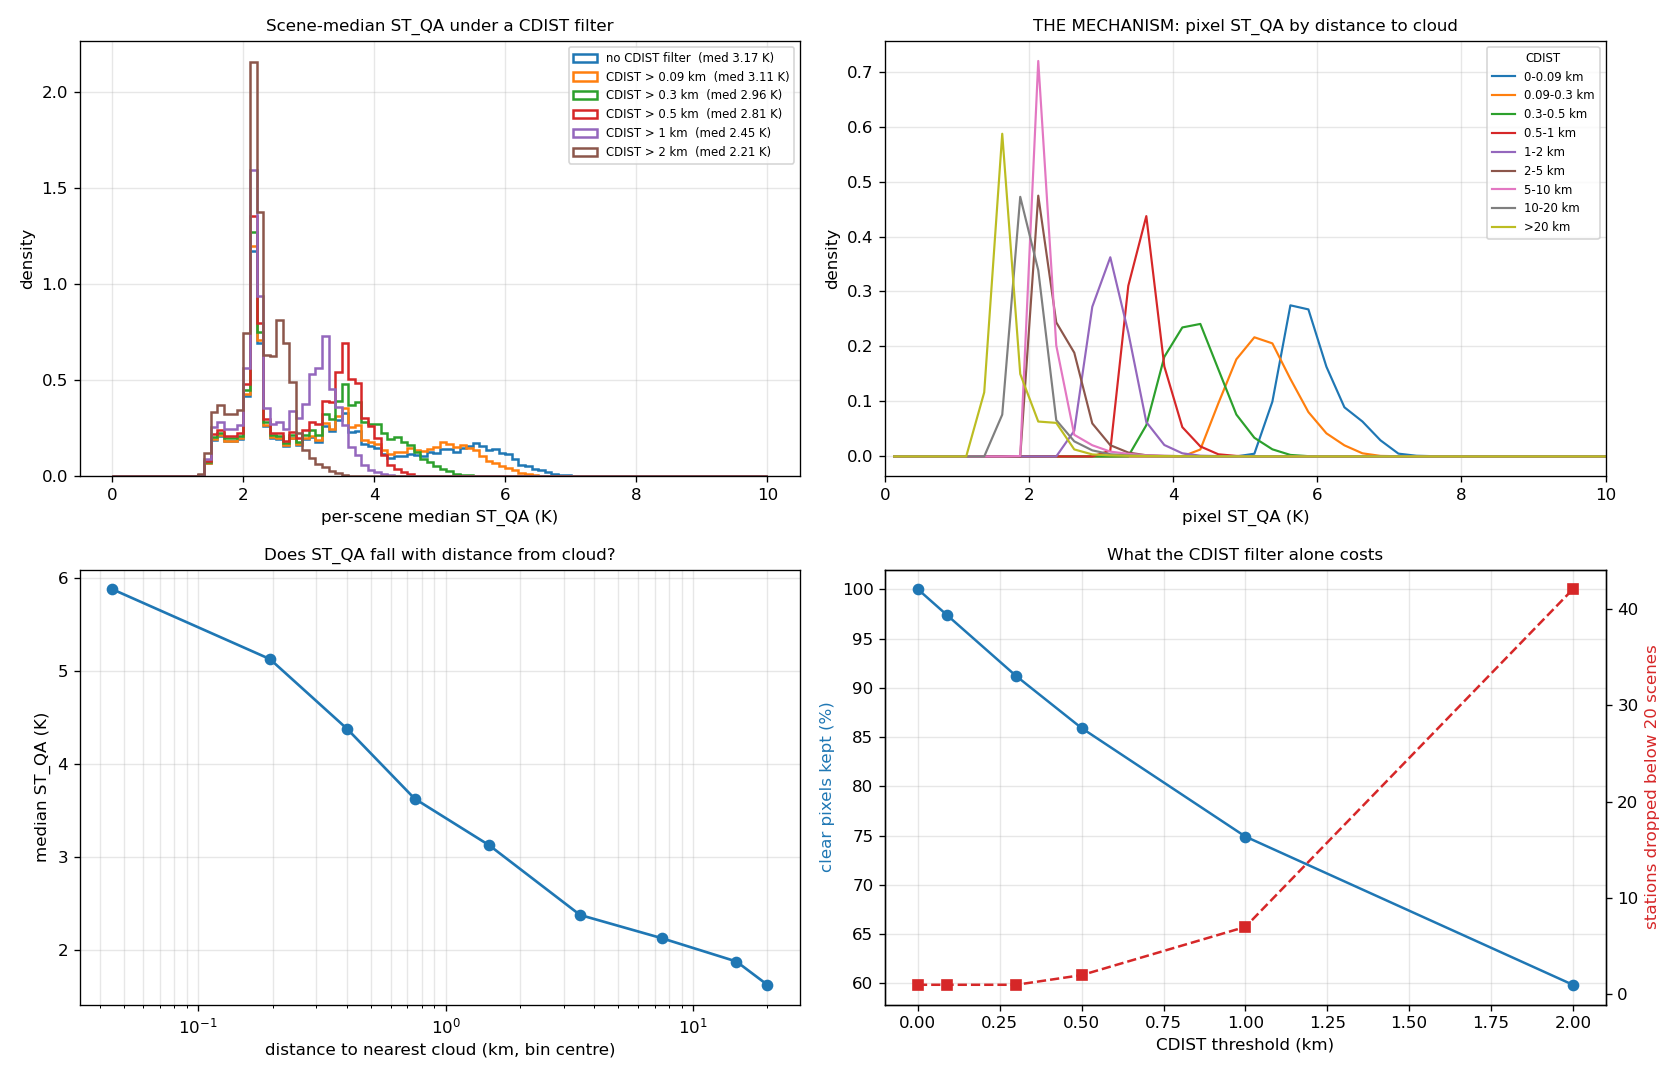
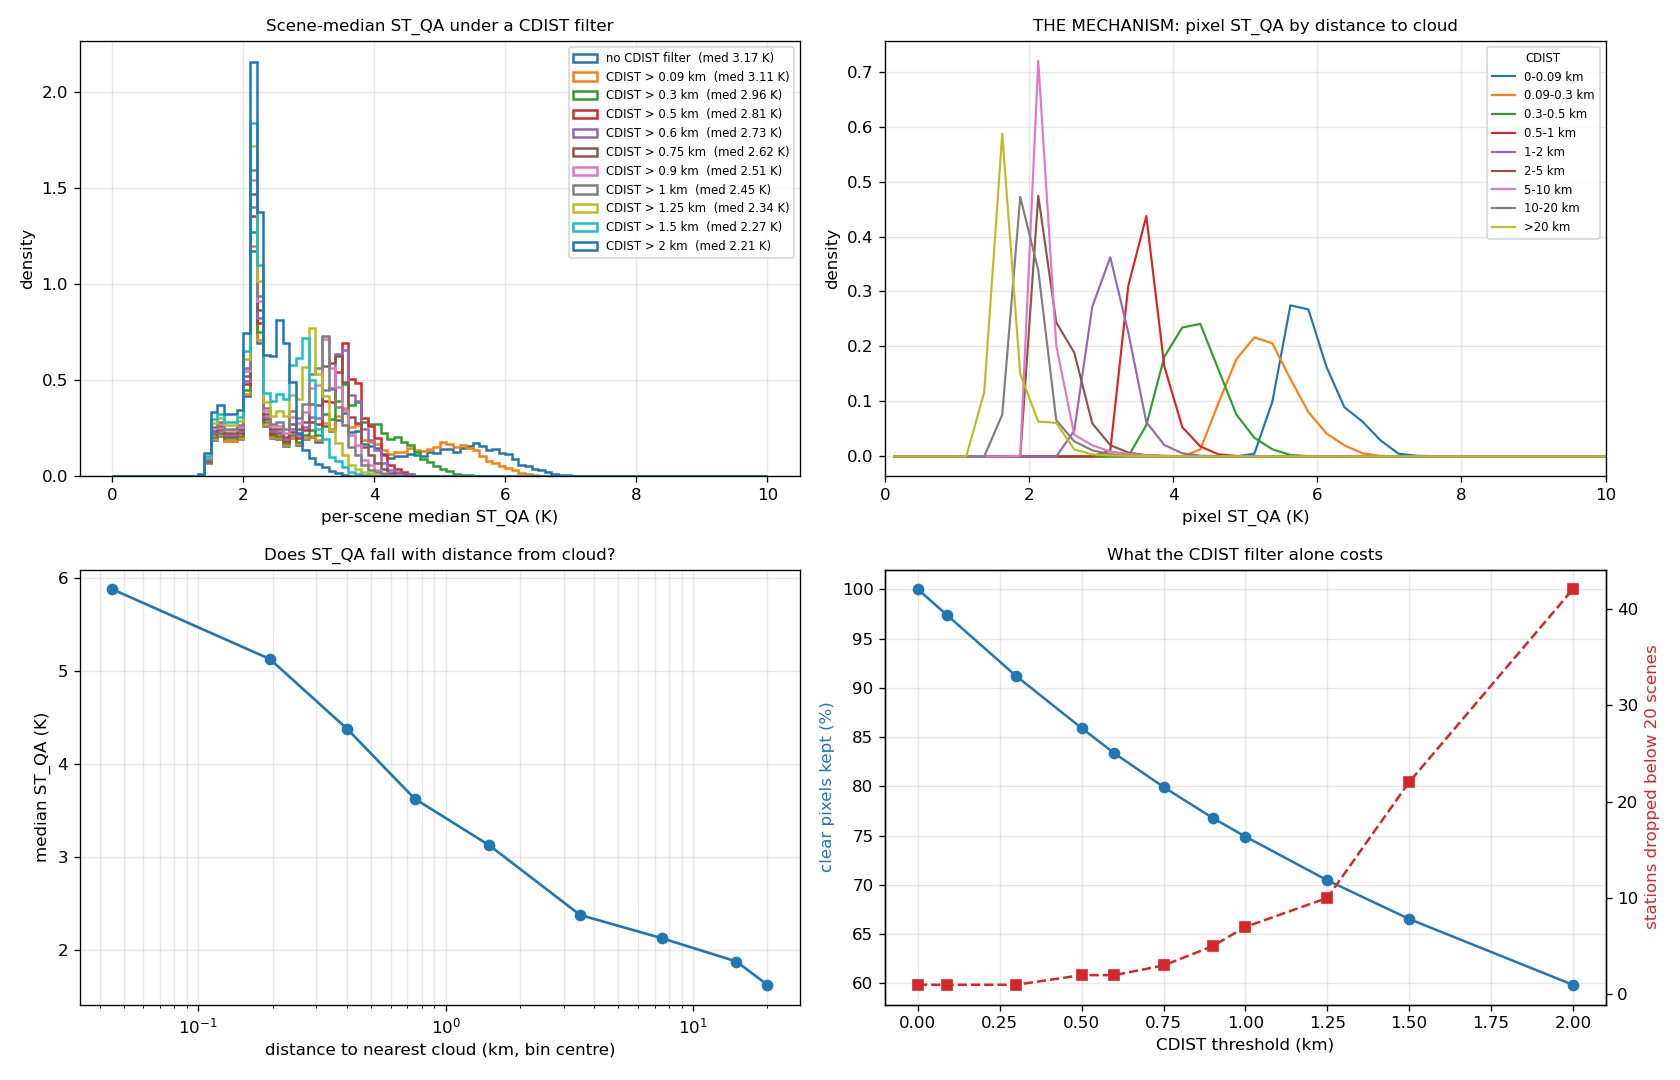
probe: CDIST 0.5 km vs 1 km, resolved per Koppen class -- default 0.5 km
probe_cdist_climate.py + finer thresholds in probe_stqa_cdist.py.
fig/landsat_st30_check/cdist_climate.png.

Climate skew rises LINEARLY with threshold from ~0.3 km -- there is NO KNEE, so the data
does not pick a value.  Stated plainly rather than over-read.

  0.5 km: 85.9% pixels, skew 1.28x, 2 stations lost, median ST_QA 2.87 K
  1.0 km: 74.9% pixels, skew 1.71x, 7 stations lost, median ST_QA 2.49 K

The two halves of the interval cost differently: 0->0.5 costs 14pp for skew 1.28, while
0.5->1.0 costs a further 11pp for skew 1.71 and 2->7 stations.  Similar data, 1.5x the
skew, 3.5x the station loss.

DEFAULT 0.5 km, on two grounds from the purity panel:
  * arid (B, 223 stations) flattens by 0.5 km -- 2.63 -> 2.25 K, with only 0.05 K more
    available all the way to 2 km.  C and D behave similarly.  Beyond 0.5 km you pay for
    purity that the 979 stations in B/C/D already have.
  * past 0.5 km the extra purity comes disproportionately from A (8 stations) and E (6),
    which are nearly invisible in absolute supervision -- halving a class already 14 of
    993 costs little in pixels and much in cross-climate generalisation.

Unlike the rest of this session's decisions, this one is FREE TO CHANGE: a training-time
filter on raw stored data.  0.5 km is a default, 1.0 km a one-line ablation.

Noted: tropical is 3.56 K median ST_QA even at 1 km vs 2.22 K arid.  No global threshold
fixes that -- it argues for handling A separately.

diff --git a/probe_cdist_climate.py b/probe_cdist_climate.py
@@ -1,37 +1,118 @@
 #!/usr/bin/env python
-"""Does the CDIST filter inherit the climate bias that disqualified the ST_QA gate?
+"""CDIST 0.5 km or 1 km?  The trade-off, resolved per Koppen macro-class.
 
-The ST_QA gate was rejected partly because `ST_QA <= 3 K` retained 0.725 of arid (B) supervision
-against 0.243 of tropical (A) -- a 3x skew hitting the two climates already least represented.
-CDIST predicts ST_QA almost deterministically, so it could inherit exactly that skew: if cloud
-proximity and high ST_QA both merely track a humid atmosphere, then filtering on either one is
-filtering on climate.  Reads csvs/landsat_stqa_cdist.csv, nothing else.
+The ST_QA gate was disqualified on climate skew: `ST_QA <= 3 K` retained 0.725 of arid (B)
+supervision against 0.243 of tropical (A), a 2.98x spread hitting the two classes already least
+represented.  CDIST predicts ST_QA almost deterministically, so it can inherit that skew, and the
+only question left is where to put the threshold.
+
+Two things this plots that the aggregate numbers hide:
+
+  * SKEW IS NOT LINEAR IN THE THRESHOLD.  Retention curves for the five classes run together at
+    low thresholds and fan out as the filter bites.  Where they start to separate IS the answer,
+    and it is not visible in any single-threshold table.
+
+  * A AND E ARE 14 OF 993 STATIONS.  A large RELATIVE loss there is a small ABSOLUTE loss of
+    supervision, but it is exactly the loss that costs generalisation across climate.  Both views
+    are plotted, because arguing from either alone gives a different answer.
+
+OUTPUT  fig/landsat_st30_check/cdist_climate.png
 """
+from __future__ import annotations
+
+from pathlib import Path
+
+import matplotlib
+matplotlib.use("Agg")
+import matplotlib.pyplot as plt
+import numpy as np
 import pandas as pd
 
-D = "/gpfs/work3/0/prjs1968/soilMoisture/csvs/landsat_stqa_cdist.csv"
-d = pd.read_csv(D)
+SRC = Path("/gpfs/work3/0/prjs1968/soilMoisture/csvs/landsat_stqa_cdist.csv")
+FIG = Path("/gpfs/work3/0/prjs1968/soilMoisture/fig/landsat_st30_check")
+NAMES = {"A": "A tropical", "B": "B arid", "C": "C temperate",
+         "D": "D continental", "E": "E polar"}
+MIN_SCENES = 20
+
+d = pd.read_csv(SRC)
+thr = sorted(float(c[3:]) for c in d.columns if c.startswith("px_"))
 g = d.groupby("kg_macro")
-cols = [c for c in ("px_0.09", "px_0.3", "px_0.5", "px_1", "px_2") if c in d.columns]
-ret = g[cols].sum().div(g["n_clear_px"].sum(), axis=0)
-ret.insert(0, "n_stations", g.size())
 
-print("CLEAR-PIXEL RETENTION BY KOPPEN MACRO-CLASS, CDIST filter\n")
+ret = pd.DataFrame({f"{t:g}": g[f"px_{t:g}"].sum() / g["n_clear_px"].sum() for t in thr})
+absol = pd.DataFrame({f"{t:g}": g[f"px_{t:g}"].sum() for t in thr})
+meds = pd.DataFrame({f"{t:g}": g[f"med_{t:g}"].median() for t in thr})
+drop = pd.DataFrame({f"{t:g}": g.apply(
+    lambda x, t=t: int((x[f"scenes_with_median_{t:g}"] < MIN_SCENES).sum())) for t in thr})
+n_st = g.size()
+
+print("CLEAR-PIXEL RETENTION BY KOPPEN MACRO-CLASS\n")
 print(ret.round(4).to_string())
+print("\nSKEW (max/min across classes) AND OVERALL RETENTION\n")
+print(f"{'CDIST >':>9}{'overall':>10}{'skew':>8}{'worst class':>14}"
+      f"{'stations lost':>15}{'median ST_QA':>14}")
+tot = d.n_clear_px.sum()
+for t in thr:
+    k = f"{t:g}"
+    s = ret[k]
+    overall = d[f"px_{k}"].sum() / tot
+    lost = int((d[f"scenes_with_median_{k}"] < MIN_SCENES).sum())
+    med = float(d[f"med_{k}"].median())
+    lab = "none" if t == 0 else f"{t:g} km"
+    print(f"{lab:>9}{overall:>10.3f}{s.max()/s.min():>8.2f}"
+          f"{s.idxmin()+' '+format(s.min(),'.3f'):>14}{lost:>15}{med:>14.3f}")
 
-mcols = [c for c in ("med_0", "med_1") if c in d.columns]
-if len(mcols) == 2:
-    m = g[mcols].median()
-    m["shift_K"] = m["med_1"] - m["med_0"]
-    print("\nresulting median ST_QA per class, no filter -> CDIST > 1 km:\n")
-    print(m.round(3).to_string())
+# ---------------- figure ----------------
+x = np.array(thr)
+fig, axes = plt.subplots(2, 2, figsize=(14, 9))
+cols = {"A": "tab:red", "B": "tab:orange", "C": "tab:green",
+        "D": "tab:blue", "E": "tab:purple"}
 
-if "px_1" in ret.columns:
-    s = ret["px_1"]
-    print(f"\nCDIST > 1 km spread : {s.min():.3f} ({s.idxmin()}) to {s.max():.3f} ({s.idxmax()})"
-          f"   ratio {s.max()/s.min():.2f}x")
-if "px_0.5" in ret.columns:
-    s = ret["px_0.5"]
-    print(f"CDIST > 0.5 km spread: {s.min():.3f} ({s.idxmin()}) to {s.max():.3f} ({s.idxmax()})"
-          f"   ratio {s.max()/s.min():.2f}x")
-print("\nReference: the ST_QA <= 3 K gate spanned 0.243 (A) to 0.725 (B) -- a 2.98x skew.")
+def mark(ax):
+    for v, c in ((0.5, "k"), (1.0, "k")):
+        ax.axvline(v, color=c, ls=":", lw=1.1, alpha=.6)
+    ax.grid(alpha=.3)
+
+ax = axes[0, 0]
+for cl in ret.index:
+    ax.plot(x, ret.loc[cl].values, "o-", ms=3.5, color=cols.get(cl),
+            label=f"{NAMES.get(cl, cl)}  (n={n_st[cl]})")
+ax.plot(x, [d[f"px_{t:g}"].sum() / tot for t in thr], "k--", lw=2, label="all 993")
+ax.set_xlabel("CDIST threshold (km)"); ax.set_ylabel("clear pixels retained")
+ax.set_title("Retention by climate — where do the classes fan out?", fontsize=10)
+ax.legend(fontsize=7); mark(ax)
+
+ax = axes[0, 1]
+skew = (ret.max() / ret.min()).values
+ax.plot(x, skew, "o-", color="tab:red", lw=2)
+ax.axhline(2.98, color="grey", ls="--", lw=1.2)
+ax.text(x[-1], 2.98, "  ST_QA ≤ 3 K (2.98x, rejected)", va="center", ha="right",
+        fontsize=8, color="grey")
+for v in (0.5, 1.0):
+    i = int(np.argmin(np.abs(x - v)))
+    ax.annotate(f"{skew[i]:.2f}x", (x[i], skew[i]), textcoords="offset points",
+                xytext=(6, 8), fontsize=9, fontweight="bold")
+ax.set_xlabel("CDIST threshold (km)"); ax.set_ylabel("skew, max/min across classes")
+ax.set_title("THE DECISION: climate skew vs threshold", fontsize=10)
+mark(ax)
+
+ax = axes[1, 0]
+for cl in meds.index:
+    ax.plot(x, meds.loc[cl].values, "o-", ms=3.5, color=cols.get(cl), label=NAMES.get(cl, cl))
+ax.set_xlabel("CDIST threshold (km)"); ax.set_ylabel("median ST_QA (K)")
+ax.set_title("Purity bought, by climate", fontsize=10)
+ax.legend(fontsize=7); mark(ax)
+
+ax = axes[1, 1]
+bot = np.zeros(len(x))
+for cl in absol.index:
+    v = absol.loc[cl].values / 1e6
+    ax.bar(x, v, bottom=bot, width=0.055, color=cols.get(cl), label=NAMES.get(cl, cl))
+    bot += v
+ax.set_xlabel("CDIST threshold (km)"); ax.set_ylabel("clear pixels retained (millions)")
+ax.set_title("ABSOLUTE supervision — A and E are 14 of 993 stations", fontsize=10)
+ax.legend(fontsize=7); mark(ax)
+
+fig.tight_layout()
+FIG.mkdir(parents=True, exist_ok=True)
+fig.savefig(FIG / "cdist_climate.png", dpi=120)
+print(f"\nwrote {FIG/'cdist_climate.png'}")

diff --git a/probe_stqa_cdist.py b/probe_stqa_cdist.py
@@ -41,7 +41,7 @@ FIG = Path("/gpfs/work3/0/prjs1968/soilMoisture/fig/landsat_st30_check")
 OUT = Path("/gpfs/work3/0/prjs1968/soilMoisture/csvs/landsat_stqa_cdist.csv")
 
 # km.  0.09 = the 3-px dilated-cloud buffer QA_PIXEL already applies, i.e. "no extra reach".
-CD = [0.0, 0.09, 0.30, 0.50, 1.00, 2.00]
+CD = [0.0, 0.09, 0.30, 0.50, 0.60, 0.75, 0.90, 1.00, 1.25, 1.50, 2.00]
 CD_EDGES = np.array([0, .09, .3, .5, 1, 2, 5, 10, 20, 1e4])   # for the mechanism curve
 QA_EDGES = np.arange(0, 12.01, 0.25)
 MIN_SCENES = 20
